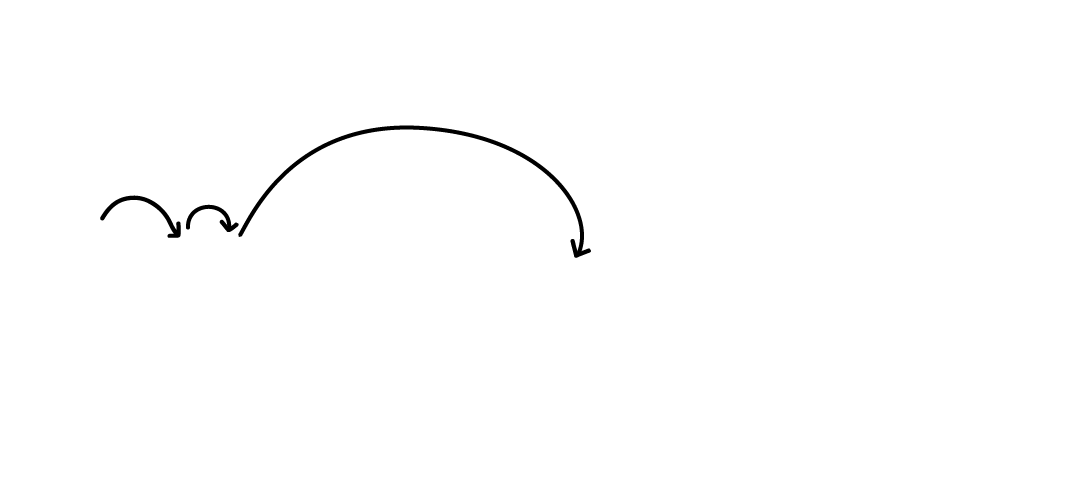
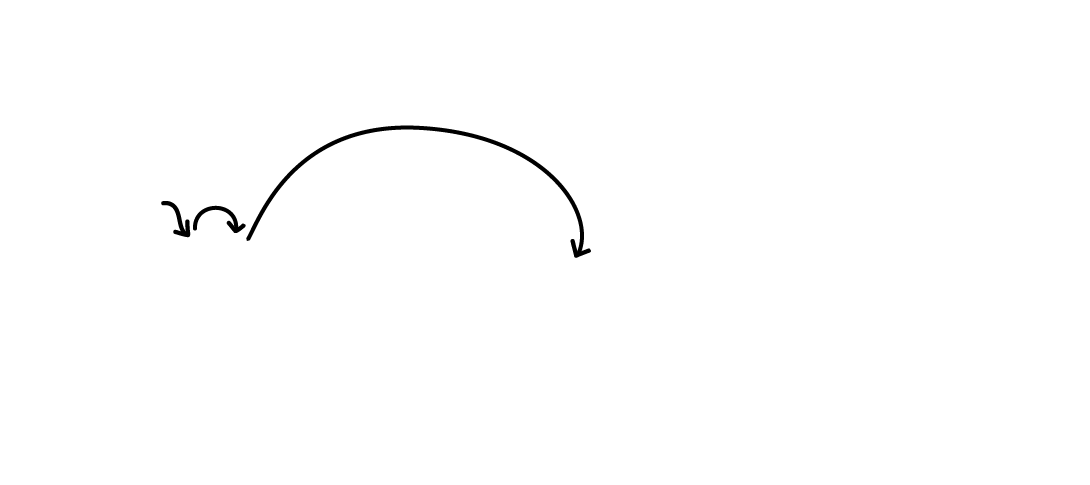
minor placement stuff

Changed region(s): [[0.0936, 0.2784, 0.3119, 0.4948], [0.3119, 0.2474, 0.3431, 0.2784]]

diff --git a/View/allSlides.js b/View/allSlides.js
@@ -1093,6 +1093,8 @@ SlideInstruct2.arrowContainer.addChild(arrow2);
     /*********     CALCULUS    *********** */   
 
     layout.NEURON_LEFTLIM = layout.NEURON_LEFTLIM_BACKPROP;
+    layout.NEURON_X_DIF = 135;
+
     layout.NEURON_Y_DIF = 175;
 
 
@@ -1432,7 +1434,7 @@ SlideInstruct2.arrowContainer.addChild(arrow2);
     var dcdw3= new PIXI.Sprite(loader.resources["images/backprop/dcdw3.png"].texture);
     dcdw3.isSprite=true;
     dcdw3.scale.set(0.6)
-    dcdw3.x=backpropx_cost+30;
+    dcdw3.x=backpropx_cost;
     dcdw3.y=layout.CY-30;
 
     var textBackCalc3a = [
@@ -1564,7 +1566,7 @@ SlideInstruct2.arrowContainer.addChild(arrow2);
         [ ["And so, all together: "],[backpropx_cost-10,layout.CY-170] ],
 
         dctotfinal_form, w3all,
-        [ ["Next, we'll go through this example with numbers."],[backpropx_cost-10,layout.CY+170] ],
+        [ ["Next, we'll go through this example with numbers."],[backpropx_cost-30,layout.CY+170] ],
     ];
     SlideBack10.drawText(textBackCalc6a);
     
@@ -1630,7 +1632,7 @@ SlideInstruct2.arrowContainer.addChild(arrow2);
 
     var ztoa= new PIXI.Sprite(loader.resources["images/backprop/arrows/ztoa.png"].texture);
         ztoa.isSprite=true;
-        ztoa.x=arrowx;
+        ztoa.x=arrowx+10;
         ztoa.y=arrowy;
 
     var a21toc= new PIXI.Sprite(loader.resources["images/backprop/arrows/a21toc.png"].texture);
@@ -1698,7 +1700,7 @@ SlideInstruct2.arrowContainer.addChild(arrow2);
     var dcdw1= new PIXI.Sprite(loader.resources["images/backprop/dcdw1.png"].texture);
         dcdw1.isSprite=true;
         dcdw1.scale.set(0.6);
-        dcdw1.x=backpropx_cost;
+        dcdw1.x=backpropx_cost-10;
         dcdw1.y=layout.CY-140;
 
 
@@ -1751,37 +1753,37 @@ SlideInstruct2.arrowContainer.addChild(arrow2);
         dcda1.isSprite=true;
         dcda1.anchor.set(0.5);
         dcda1.scale.set(0.8);
-        dcda1.x=backpropx_cost+180;
+        dcda1.x=backpropx_cost+170;
         dcda1.y=layout.CY-160;
 
     var a11 = new PIXI.Sprite(loader.resources["images/backprop/a11.png"].texture);
         a11.isSprite=true;
         a11.scale.set(0.6)
-        a11.x=backpropx_cost+50;
+        a11.x=backpropx_cost+115;
         a11.y=layout.CY-130;
 
     var a21 = new PIXI.Sprite(loader.resources["images/backprop/a21.png"].texture);
         a21.isSprite=true;
         a21.scale.set(0.6)
-        a21.x=backpropx_cost+200;
+        a21.x=backpropx_cost+265;
         a21.y=layout.CY-130;
 
     var a22 = new PIXI.Sprite(loader.resources["images/backprop/a22.png"].texture);
         a22.isSprite=true;
         a22.scale.set(0.6)
-        a22.x=backpropx_cost+280;
+        a22.x=backpropx_cost+345;
         a22.y=layout.CY-130;
 
     var c1 = new PIXI.Sprite(loader.resources["images/backprop/c1.png"].texture);
         c1.isSprite=true;
         c1.scale.set(0.6)
-        c1.x=backpropx_cost+120;
+        c1.x=backpropx_cost+110;
         c1.y=layout.CY-105;
 
     var c2 = new PIXI.Sprite(loader.resources["images/backprop/c2.png"].texture);
         c2.isSprite=true;
         c2.scale.set(0.6)
-        c2.x=backpropx_cost+200;
+        c2.x=backpropx_cost+190;
         c2.y=layout.CY-105;
 
     var w1toc = new PIXI.Sprite(loader.resources["images/backprop/arrows/w1toc2.png"].texture);
@@ -1797,9 +1799,9 @@ SlideInstruct2.arrowContainer.addChild(arrow2);
 
 
     var textBackCalc9 = [
-       [ ["However, to find           , we need to break it down "
-            +'\n\n'+"since         affects both        and     "
-            +'\n\n'+"and therefore        and       ."],[backpropx_cost,layout.CY-170] ],
+       [ ["However, to find           , we need to break    "
+            +'\n\n'+"it down, since         affects both        and     "
+            +'\n\n'+"and therefore        and       ."],[backpropx_cost-10,layout.CY-170] ],
        dcda1_form1,w1toc,
         dcda1,a11,a21,a22,c1,c2,
     ];
@@ -1821,7 +1823,7 @@ SlideInstruct2.arrowContainer.addChild(arrow2);
 
     var dcda_form2= new PIXI.Sprite(loader.resources["images/backprop/dcda_form2.png"].texture);
         dcda_form2.isSprite=true;
-        dcda_form2.scale.set(0.38)
+        dcda_form2.scale.set(0.35,0.38)
         dcda_form2.x=backpropx_cost-45;
         dcda_form2.y=layout.CY-200;
 
@@ -1862,14 +1864,14 @@ SlideInstruct2.arrowContainer.addChild(arrow2);
 
     var dcda_form3= new PIXI.Sprite(loader.resources["images/backprop/dcda_form3.png"].texture);
     dcda_form3.isSprite=true;
-    dcda_form3.scale.set(0.38)
+    dcda_form3.scale.set(0.35,0.38)
     dcda_form3.x=backpropx_cost-45;
     dcda_form3.y=layout.CY-200;
 
     var dcda1_full= new PIXI.Sprite(loader.resources["images/backprop/formulas/dcda1_full.png"].texture);
     dcda1_full.isSprite=true;
-    dcda1_full.scale.set(0.36)
-    dcda1_full.x=backpropx_cost-15;
+    dcda1_full.scale.set(0.33)
+    dcda1_full.x=backpropx_cost-30;
     dcda1_full.y=layout.CY+100;
 
     var textBackCalc9a = [
@@ -1898,7 +1900,7 @@ SlideInstruct2.arrowContainer.addChild(arrow2);
     var dcda1_full2= new PIXI.Sprite(loader.resources["images/backprop/formulas/dcda1_full2.png"].texture);
     dcda1_full2.isSprite=true;
     dcda1_full2.scale.set(0.38)
-    dcda1_full2.x=backpropx_cost-90;
+    dcda1_full2.x=backpropx_cost-100;
     dcda1_full2.y=layout.CY-200;
 
     var dadz21_small= new PIXI.Sprite(loader.resources["images/backprop/dadz21.png"].texture);
@@ -1941,7 +1943,7 @@ SlideInstruct2.arrowContainer.addChild(arrow2);
     var dcdw1_full= new PIXI.Sprite(loader.resources["images/backprop/formulas/dcdw1_full.png"].texture);
     dcdw1_full.isSprite=true;
     dcdw1_full.scale.set(0.5)
-    dcdw1_full.x=backpropx_cost-160;
+    dcdw1_full.x=backpropx_cost-165;
     dcdw1_full.y=layout.CY-140;
 
         var textBackCalc9c = [
@@ -1991,6 +1993,7 @@ SlideInstruct2.arrowContainer.addChild(arrow2);
 
 
     /**----------------- SANDBOX-------------- */
+
     var netSand=new Net();
     SlideSandbox.sandbox=true;
     SlideSandbox.slideNet=netSand;

diff --git a/View/Slide.js b/View/Slide.js
@@ -222,7 +222,6 @@ export class Slide{
             layersbox.y= layout.NEURON_UPPERLIM-130;
             this.buttonContainer.addChild(layersbox);
 
-
         layersbox.addChild(new Button("addlayer",loader.resources["images/buttons/button_layer.png"].texture, -30, 0,true));
         layersbox.addChild(new Button("remlayer",loader.resources["images/buttons/button_removelayer.png"].texture, 80, 0, true));
 
@@ -319,7 +318,7 @@ export class Slide{
             ratebox.x= 0;
             ratebox.y= 315;
             } else {
-                ratebox.x= layout.CX-265;
+                ratebox.x= layout.CX-225;
                 
                 ratebox.y= layout.CY-215;
             }
@@ -413,7 +412,7 @@ export class Slide{
         this.buttonContainer.addChild(learnbox);
 
         if(!slide.sandbox){
-            learnbox.x=layout.CX-510;
+            learnbox.x=layout.CX-480;
             learnbox.y=layout.CY-210;
 
         }
@@ -1031,6 +1030,7 @@ export class Slide{
 
         if(this.sandbox){
             layout.NEURON_LEFTLIM=layout.NEURON_LEFTLIM_SANDBOX;
+
         } else if(this.backprop){
             layout.NEURON_LEFTLIM= layout.NEURON_LEFTLIM_BACKPROP;
         } else {
@@ -1209,21 +1209,21 @@ export class Slide{
             
                         var w1=new PIXI.Sprite(loader.resources["images/backprop/w1_teal.png"].texture);
                             w1.anchor.set(0.5)
-                            w1.x=x+20;
-                            w1.y=y+50;
+                            w1.x=x+10;
+                            w1.y=y+40;
                             
                         var w2=new PIXI.Sprite(loader.resources["images/backprop/w2.png"].texture);
                             w2.anchor.set(0.5)
-                            w2.x=x+12;
+                            w2.x=x+5;
                             w2.y=y+120;
                         var w3=new PIXI.Sprite(loader.resources["images/backprop/w3_teal.png"].texture);
                             w3.anchor.set(0.5)
-                            w3.x=x +160;
-                            w3.y=y+40;
+                            w3.x=x +135;
+                            w3.y=y+45;
 
                         var w4=new PIXI.Sprite(loader.resources["images/backprop/w4_teal.png"].texture);
                             w4.anchor.set(0.5)
-                            w4.x=x+180;
+                            w4.x=x+160;
                             w4.y=y+145;
 
                             if(this.none==true){
@@ -2869,7 +2869,7 @@ export class Slide{
 
     drawInteractive(){
         var interactive = new PIXI.Sprite(PIXI.Texture.from('images/interactive.png'));
-            interactive.x=layout.CX+420;
+            interactive.x=layout.CX+400;
             interactive.y=layout.CY-220;
         this.textContainer.addChild(interactive);
 

diff --git a/View/layout.js b/View/layout.js
@@ -12,47 +12,18 @@ export const layout = {
 
     NEURON_LEFTLIM_INIT: window.innerWidth/2 - 200,
     NEURON_LEFTLIM_SANDBOX: 440,
-    NEURON_LEFTLIM_BACKPROP: window.innerWidth/2 - 328,
+    NEURON_LEFTLIM_BACKPROP: window.innerWidth/2 - 318,
     NEURON_LEFTLIM_LARGE: window.innerWidth/2 + 300,
-
-
-
-
-
-
-
-
-
-
-
-
-
-
-
-
-
-
-
-
-
-
-
-
-
-
-
 
     HEADER_HEIGHT:50,
     FOOTER_HEIGHT:75,
 
     LEFTBUFFER:0,//window.innerWidth/10,
-    //LEFTBUFFER: Math.max((window.innerWidth-1100)/2,15),
     BOTTOMBUFFER: window.innerHeight-80,
     TOPBUFFER: 0,
     MAXHEIGHT: 470,
 
     CENTER: window.innerHeight/2 -50,
-    //CENTER: Math.max((window.innerWidth-1100)/2,20)+window.innerWidth/2,
 
     NEXTSLIDE_X: (window.innerWidth/2) +100,
     PREVSLIDE_X: (window.innerWidth/2) -100,
@@ -66,33 +37,14 @@ export const layout = {
     
     BUTTONS_X:  Math.max((window.innerWidth-1100)/2,20) +50,
 
-
-    /****** NEURONS ******/
-    //NEURON_LEFTLIM_INIT: Math.max((window.innerWidth-1100)/2,15) +440,
-    //NEURON_LEFTLIM: Math.max((window.innerWidth-1100)/2,15) +440,
-
-    //NEURON_LEFTLIM_BACKPROP: Math.max((window.innerWidth-1100)/2,15) +250,
-    //NEURON_LARGE_LEFTLIM: Math.max((window.innerWidth-1100)/2,20)+525,
-    //NEURON_LEFTLIM_SANDBOX: 440,//Math.max((window.innerWidth-1100)/2,15) +350,
-
-    //NEURON_UPPERLIM_INIT: 240,
-  //  NEURON_UPPERLIM_SANDBOX: 230,
-
-
-
-   // NEURON_UPPERLIM_LARGE:150,
-
     NEURON_X_DIF: 150,
     NEURON_Y_DIF: 125,
 
     NEURON_LARGE_X: Math.max((window.innerWidth-1100)/2,20)+925,
     NEURON_LARGE_Y: 280,
 
-    //NEURON_LARGE_Y_DIF:250,
-
     NEURON_NUDGE: 35,
 
-   // ACTFNS_X:(window.innerHeight-80)-100,
 
    /******BACKPROP */
    DZDW:50,

diff --git a/View/View.js b/View/View.js
@@ -285,7 +285,7 @@ export class View{
         .load(setup);
 
         function setup() {
-            vst.currentSlide=0;
+            vst.currentSlide=52;
             makeSlides();
 
             vst.slideList = [];
